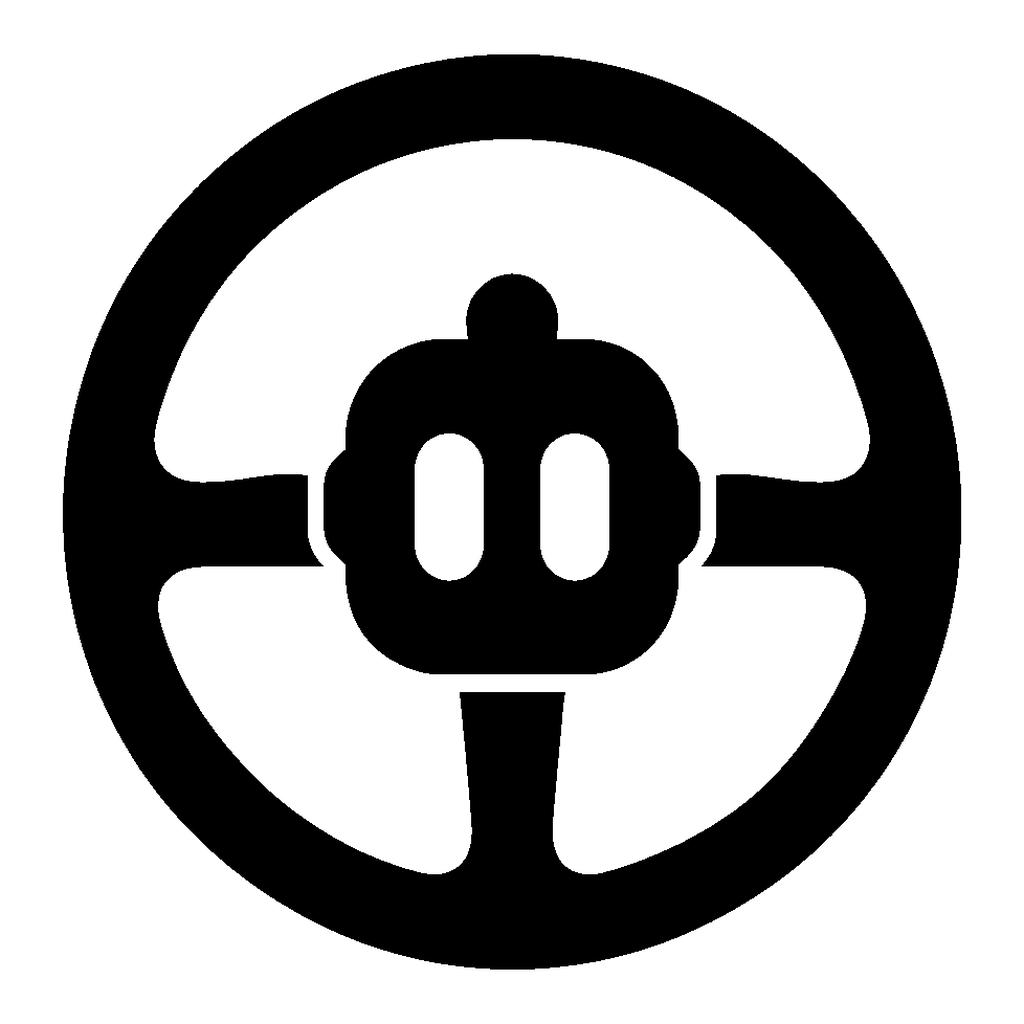
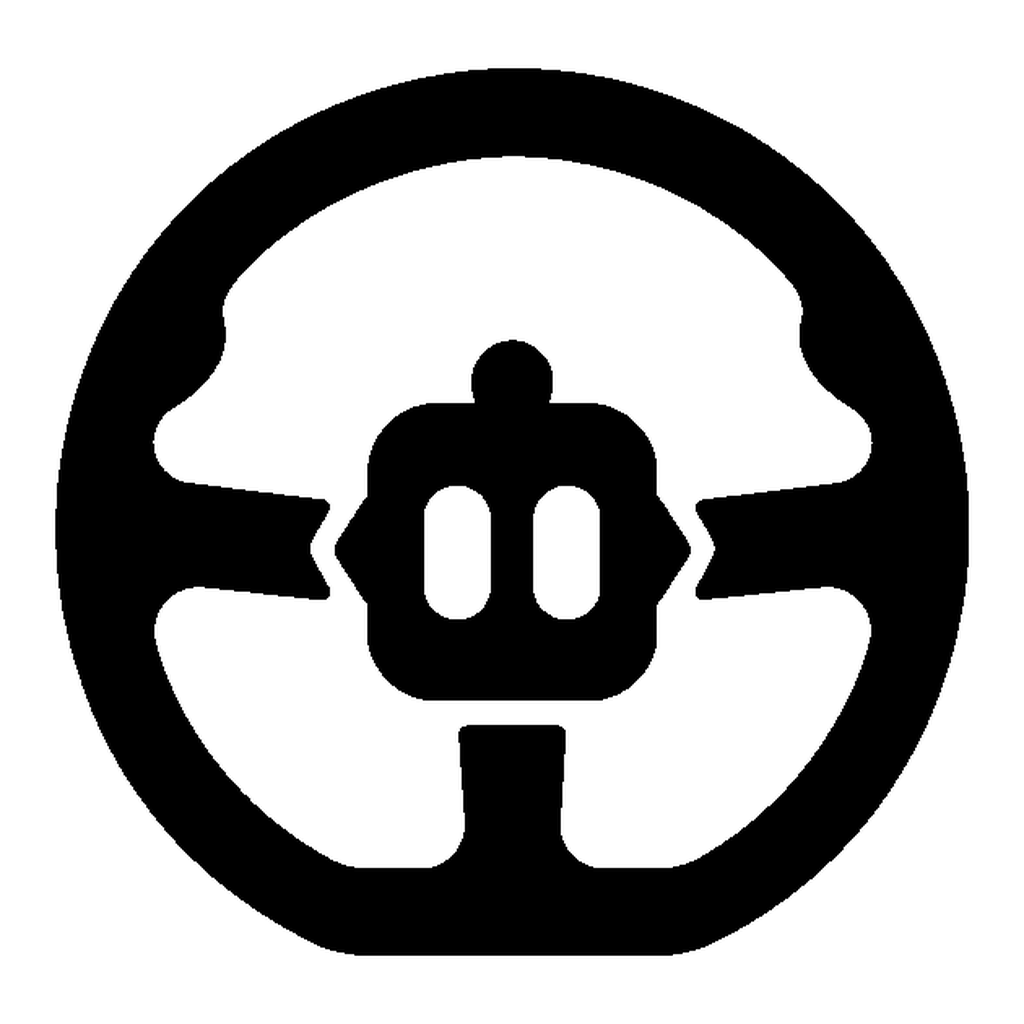
fix(brand): lock the approved Drive mark

diff --git a/Brand/VERIFY.html b/Brand/VERIFY.html
@@ -1,0 +1,73 @@
+<!doctype html>
+<html lang="en">
+<head>
+  <meta charset="utf-8">
+  <meta name="viewport" content="width=device-width, initial-scale=1">
+  <title>Drive mark production verification</title>
+  <style>
+    :root { color-scheme: light dark; font-family: -apple-system, BlinkMacSystemFont, sans-serif; }
+    * { box-sizing: border-box; }
+    body { margin: 0; background: #f3f3f5; color: #111; }
+    body.dark { background: #09090b; color: #f7f7f8; }
+    main { width: min(1100px, calc(100% - 32px)); margin: 32px auto 64px; }
+    header { display: flex; align-items: start; justify-content: space-between; gap: 24px; }
+    h1 { margin: 0 0 8px; font-size: clamp(28px, 5vw, 48px); letter-spacing: -.04em; }
+    p { max-width: 70ch; color: #666; line-height: 1.5; }
+    .dark p { color: #aaa; }
+    button { border: 1px solid #aaa6; border-radius: 999px; padding: 10px 16px; background: #fff8; color: inherit; }
+    .dark button { background: #222a; }
+    section { margin-top: 28px; padding: 24px; border: 1px solid #8884; border-radius: 24px; background: #fff; }
+    .dark section { background: #111; }
+    h2 { margin: 0 0 18px; font-size: 18px; }
+    .reference { width: min(100%, 560px); display: block; border-radius: 18px; }
+    .sizes { display: flex; flex-wrap: wrap; align-items: end; gap: 24px; }
+    figure { margin: 0; display: grid; justify-items: center; gap: 8px; }
+    figcaption { color: #777; font: 12px ui-monospace, SFMono-Regular, monospace; }
+    .mark { object-fit: contain; }
+    .dark .mark { filter: invert(1); }
+    .tiles { display: grid; grid-template-columns: repeat(auto-fit, minmax(180px, 1fr)); gap: 18px; }
+    .tile { padding: 18px; border-radius: 22%; background: #eee; }
+    .tile.dark-tile { background: #111; }
+    .tile img { width: 100%; display: block; border-radius: 22%; }
+    code { font-size: 12px; overflow-wrap: anywhere; }
+  </style>
+</head>
+<body>
+<main>
+  <header>
+    <div>
+      <h1>Drive mark verification</h1>
+      <p>Production comparison for the approved angular-shoulder, notched-spoke mark. Toggle the surface and inspect the real runtime raster at its target sizes.</p>
+    </div>
+    <button type="button" onclick="document.body.classList.toggle('dark')">Toggle surface</button>
+  </header>
+
+  <section>
+    <h2>Archived approved reference</h2>
+    <img class="reference" src="DriveMarkReference.png" alt="Approved Drive mark shown black on white and white on black">
+    <p><code>SHA-256 d7f89cad545dfbb87cb0e119c56d5fbd3baa1bb23f5b0de2ca919f7a36f0bcb3</code></p>
+  </section>
+
+  <section>
+    <h2>Runtime tier</h2>
+    <div class="sizes">
+      <figure><img class="mark" src="../Assets.xcassets/DriveMark.imageset/DriveMark@3x.png" width="16" height="16" alt=""><figcaption>16 pt</figcaption></figure>
+      <figure><img class="mark" src="../Assets.xcassets/DriveMark.imageset/DriveMark@3x.png" width="20" height="20" alt=""><figcaption>20 pt</figcaption></figure>
+      <figure><img class="mark" src="../Assets.xcassets/DriveMark.imageset/DriveMark@3x.png" width="25" height="25" alt=""><figcaption>25 pt</figcaption></figure>
+      <figure><img class="mark" src="../Assets.xcassets/DriveMark.imageset/DriveMark@3x.png" width="32" height="32" alt=""><figcaption>32 pt</figcaption></figure>
+      <figure><img class="mark" src="../Assets.xcassets/DriveMark.imageset/DriveMark@3x.png" width="64" height="64" alt=""><figcaption>64 pt</figcaption></figure>
+      <figure><img class="mark" src="../Assets.xcassets/DriveMark.imageset/DriveMark@3x.png" width="192" height="192" alt=""><figcaption>192 pt</figcaption></figure>
+    </div>
+  </section>
+
+  <section>
+    <h2>Install tier</h2>
+    <div class="tiles">
+      <figure class="tile"><img src="../Assets.xcassets/AppIcon.appiconset/AppIcon-Any.png" alt="Default Drive app icon"><figcaption>Any · opaque</figcaption></figure>
+      <figure class="tile dark-tile"><img src="../Assets.xcassets/AppIcon.appiconset/AppIcon-Dark.png" alt="Dark Drive app icon"><figcaption>Dark · transparent</figcaption></figure>
+      <figure class="tile"><img src="../Assets.xcassets/AppIcon.appiconset/AppIcon-Tinted.png" alt="Tinted grayscale Drive app icon"><figcaption>Tinted · grayscale mask</figcaption></figure>
+    </div>
+  </section>
+</main>
+</body>
+</html>

diff --git a/Brand/generate-brand-assets.py b/Brand/generate-brand-assets.py
@@ -1,14 +1,16 @@
 #!/usr/bin/env python3
-"""Generate every Drive icon from one canonical transparent mark.
+"""Generate every Drive icon from the approved paired reference.
 
 Requires Pillow. `--import-reference` is the one-time normalization path for an
-approved single mark or a wide side-by-side light/dark reference sheet. Regular
-generation and `--check` use Brand/DriveMarkSource.png only.
+approved single mark or side-by-side light/dark reference sheet. Regular
+generation uses Brand/DriveMarkSource.png; `--check` also verifies that the
+archived reference is the exact approved file.
 """
 
 from __future__ import annotations
 
 import argparse
+import hashlib
 import io
 import sys
 from pathlib import Path
@@ -17,21 +19,46 @@ from PIL import Image, ImageFilter
 
 
 ROOT = Path(__file__).resolve().parents[1]
+REFERENCE = ROOT / "Brand" / "DriveMarkReference.png"
 SOURCE = ROOT / "Brand" / "DriveMarkSource.png"
 APP_ICON_DIR = ROOT / "Assets.xcassets" / "AppIcon.appiconset"
 RUNTIME_ICON_DIR = ROOT / "Assets.xcassets" / "DriveMark.imageset"
 ICONS_DIR = ROOT / "Icons"
 CANVAS = 1024
+APPROVED_REFERENCE_SHA256 = (
[1 lines of base64/hex data omitted]
+)
+
+
+def _paired_reference_half(image: Image.Image) -> Image.Image | None:
+    """Return the light-background half of an inverse reference pair, if any."""
+
+    if image.width < 2:
+        return None
+
+    midpoint = image.width // 2
+    left_background = sum(
+        image.getpixel((0, y)) for y in (0, image.height - 1)
+    ) / 2
+    right_background = sum(
+        image.getpixel((image.width - 1, y)) for y in (0, image.height - 1)
+    ) / 2
+    if abs(left_background - right_background) < 128:
+        return None
+
+    # Wide presentation sheets may have a gutter around the centre divider.
+    # Square sheets, including the approved 1254px master, split at midpoint.
+    gutter = 8 if image.width >= image.height * 1.5 else 0
+    if left_background > right_background:
+        return image.crop((0, 0, midpoint - gutter, image.height))
+    return image.crop((midpoint + gutter, 0, image.width, image.height))
 
 
 def _reference_mask(image: Image.Image) -> Image.Image:
-    """Extract foreground from a single mark or wide light/dark sheet."""
+    """Extract foreground from a single mark or inverse light/dark sheet."""
 
     image = image.convert("L")
-    if image.width >= image.height * 1.5:
-        # The approved sheet is a light/dark pair split down the middle. Leave
-        # a small gutter so the divider cannot enter the mask.
-        image = image.crop((0, 0, image.width // 2 - 8, image.height))
+    image = _paired_reference_half(image) or image
 
     corner_values = [
         image.getpixel((0, 0)),
@@ -74,6 +101,30 @@ def _import_reference(path: Path) -> None:
     SOURCE.write_bytes(_png_bytes(source))
 
 
+def _archive_approved_reference(path: Path) -> None:
+    reference = path.read_bytes()
+    digest = hashlib.sha256(reference).hexdigest()
+    if digest != APPROVED_REFERENCE_SHA256:
+        raise ValueError(
+            "reference does not match the approved Drive mark "
+            f"({digest}; expected {APPROVED_REFERENCE_SHA256})"
+        )
+    REFERENCE.parent.mkdir(parents=True, exist_ok=True)
+    REFERENCE.write_bytes(reference)
+
+
+def _verify_approved_reference() -> None:
+    if not REFERENCE.exists():
+        raise FileNotFoundError(
+            f"missing {REFERENCE.relative_to(ROOT)}; import the approved reference first"
+        )
+    digest = hashlib.sha256(REFERENCE.read_bytes()).hexdigest()
+    if digest != APPROVED_REFERENCE_SHA256:
+        raise ValueError(
+            f"{REFERENCE.relative_to(ROOT)} has unapproved content ({digest})"
+        )
+
+
 def _source_mask() -> Image.Image:
     if not SOURCE.exists():
         raise FileNotFoundError(
@@ -84,8 +135,11 @@ def _source_mask() -> Image.Image:
 
 def _transparent_mark(size: int, color: tuple[int, int, int, int]) -> Image.Image:
     mask = _source_mask().resize((size, size), Image.Resampling.LANCZOS)
-    image = Image.new("RGBA", (size, size), (0, 0, 0, 0))
-    image.paste(color, mask=mask)
+    # Keep RGB solid through anti-aliased edge pixels and carry coverage only
+    # in alpha. Blending the color with a transparent black canvas here would
+    # create a dark fringe when the white Dark/Tinted marks are composited.
+    image = Image.new("RGBA", (size, size), color)
+    image.putalpha(mask)
     return image
 
 
@@ -141,7 +195,10 @@ def main() -> int:
     if args.check and args.import_reference:
         parser.error("--check and --import-reference cannot be combined")
     if args.import_reference:
-        _import_reference(args.import_reference)
+        _archive_approved_reference(args.import_reference)
+        _import_reference(REFERENCE)
+
+    _verify_approved_reference()
 
     rendered = _rendered_images()
     mismatches: list[Path] = []

diff --git a/Brand/test_generate_brand_assets.py b/Brand/test_generate_brand_assets.py
@@ -25,13 +25,30 @@ class ReferenceMaskTests(unittest.TestCase):
         ImageDraw.Draw(image).rounded_rectangle((12, 8, 51, 55), radius=8, fill=0)
         return image
 
-    def test_square_reference_is_not_mistaken_for_a_two_up_sheet(self) -> None:
+    def test_square_single_mark_is_not_mistaken_for_a_two_up_sheet(self) -> None:
         reference = self.light_mark()
 
         mask = MODULE._reference_mask(reference)
 
         self.assertEqual(mask.size, reference.size)
         self.assertEqual(mask.getbbox(), (12, 8, 52, 56))
+
+    def test_square_inverse_sheet_uses_its_light_left_appearance(self) -> None:
+        light = self.light_mark()
+        light_panel = Image.new("L", (64, 128), 255)
+        dark_panel = Image.new("L", (64, 128), 0)
+        light_panel.paste(light, (0, 32))
+        dark_panel.paste(ImageOps.invert(light), (0, 32))
+        sheet = Image.new("L", (128, 128), 0)
+        sheet.paste(light_panel, (0, 0))
+        sheet.paste(dark_panel, (64, 0))
+
+        mask = MODULE._reference_mask(sheet)
+
+        self.assertEqual(mask.size, light_panel.size)
+        self.assertEqual(
+            mask.tobytes(), MODULE._reference_mask(light_panel).tobytes()
+        )
 
     def test_light_and_dark_references_extract_the_same_geometry(self) -> None:
         light = self.light_mark()
@@ -52,6 +69,19 @@ class ReferenceMaskTests(unittest.TestCase):
 
         self.assertEqual(mask.size, light.size)
         self.assertEqual(mask.tobytes(), MODULE._reference_mask(light).tobytes())
+
+    def test_install_icon_appearances_keep_their_compositing_contract(self) -> None:
+        rendered = MODULE._rendered_images()
+        any_icon = rendered[MODULE.APP_ICON_DIR / "AppIcon-Any.png"]
+        self.assertEqual(any_icon.mode, "RGB")
+
+        for filename in ("AppIcon-Dark.png", "AppIcon-Tinted.png"):
+            image = rendered[MODULE.APP_ICON_DIR / filename]
+            self.assertEqual(image.mode, "RGBA")
+            self.assertEqual(image.getchannel("R").getextrema(), (255, 255))
+            self.assertEqual(image.getchannel("G").getextrema(), (255, 255))
+            self.assertEqual(image.getchannel("B").getextrema(), (255, 255))
+            self.assertEqual(image.getchannel("A").getextrema(), (0, 255))
 
 
 if __name__ == "__main__":

diff --git a/Brand/PRINCIPLES.md b/Brand/PRINCIPLES.md
@@ -3,8 +3,12 @@
 ## Locked metaphor and geometry
 
 - The Drive mark is the steering wheel with the Cline head at its hub.
-- `Brand/DriveMarkSource.png` is the canonical normalized geometry imported
-  from Cline's approved Drive mark. Feature code must use
+- `Brand/DriveMarkReference.png` is the exact approved 1254×1254 light/dark
[1 lines of base64/hex data omitted]
+  Its black-on-white left half is canonical; the inverse right half is a
+  presentation proof, not a second geometry.
+- `Brand/DriveMarkSource.png` is the generated, normalized runtime source.
+  Feature code must use
   `DriveMark` or a rendering exposed by `DriveBrand`; it must not introduce
   another logo file.
 - Runtime and install assets are generated from that source. Loading motion is
@@ -22,8 +26,8 @@
 ## Hard constraints
 
 - Monochrome only. Do not fill the Drive mark purple or use agent colors.
-- Preserve the steering-wheel silhouette, flat bottom, antenna nub, and eye
-  cutouts.
+- Preserve the steering-wheel silhouette, flat bottom, antenna nub, eye
+  cutouts, angular head shoulders, and notched horizontal spokes.
 - App-icon variants may change figure/ground treatment, never the core form.
 - Dark and tinted app-icon files retain transparency for the system-provided
   background and treatment.
@@ -34,5 +38,8 @@
 - Clear figure/ground at 1024, 180, and 120 px.
 - Black-on-light and white-on-dark variants preserve the same silhouette.
 - Tinted appearance remains a one-color grayscale mask.
-- A geometry change must pass `Brand/generate-brand-assets.py --check` after
-  regenerating the committed outputs.
+- `Brand/VERIFY.html` shows the committed assets at 16–192 pt and across both
+  surface themes for repeatable visual QA.
+- A geometry change must update the approved-reference hash deliberately and
+  pass `Brand/generate-brand-assets.py --check` after regenerating the
+  committed outputs.

diff --git a/README.md b/README.md
@@ -130,14 +130,16 @@ escalation preference — persisted now, applied the moment push lands.
 
 ## Brand & delight
 
-- [`Brand/DriveMarkSource.png`](Brand/DriveMarkSource.png) is the **single
-  canonical Drive mark** imported from Cline's approved steering-wheel
-  sheet. `Brand/generate-brand-assets.py` derives the adaptive runtime image,
+- [`Brand/DriveMarkReference.png`](Brand/DriveMarkReference.png) is the exact
+  approved light/dark steering-wheel reference; its hash and locked geometry
+  are recorded in [`Brand/PRINCIPLES.md`](Brand/PRINCIPLES.md).
+  `Brand/generate-brand-assets.py` normalizes that reference into
+  `Brand/DriveMarkSource.png` and derives the adaptive runtime image,
   the Any/Dark/Tinted app-icon catalog, and legacy simulator icons from it;
   `Sources/DriveBrand.swift` is the only feature-code entry point. Run the
   generator with `--check` after any brand change. The mark is used in Open,
   the Home lockup/control, Work tab, presence chips, reconnect/loading states,
-  Profile, and the install icon. See [`Brand/PRINCIPLES.md`](Brand/PRINCIPLES.md).
+  Profile, and the install icon.
   Agent avatars wear `ClineBotShape` (from the hub's `cline-logo-filled.svg`).
 - `Pressable` spring press-feedback on every button; joining overlay on call
   entry; sweep/success haptics. All motion respects Reduce Motion.
